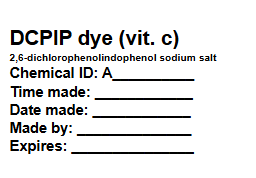
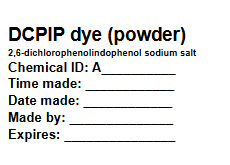
make dcpip powder label more distinct from the liquid dye label

diff --git a/Scripts/reagent-printing.js b/Scripts/reagent-printing.js
@@ -78,7 +78,7 @@ const comm_name = {
     "glacial_acetic_acid":"Glacial Acetic Acid",
     "edta":"EDTA",
     "ascorbic_acid":"Ascorbic Acid",
-    "2_6_dcpip":"DCPIP dye (vit. c)",
+    "2_6_dcpip":"DCPIP dye (powder)",
     "diethyl_ether":"Diethyl Ether",
     "ethanol":"Ethanol",
     "phenolpthalein":"Phenolpthalein",
